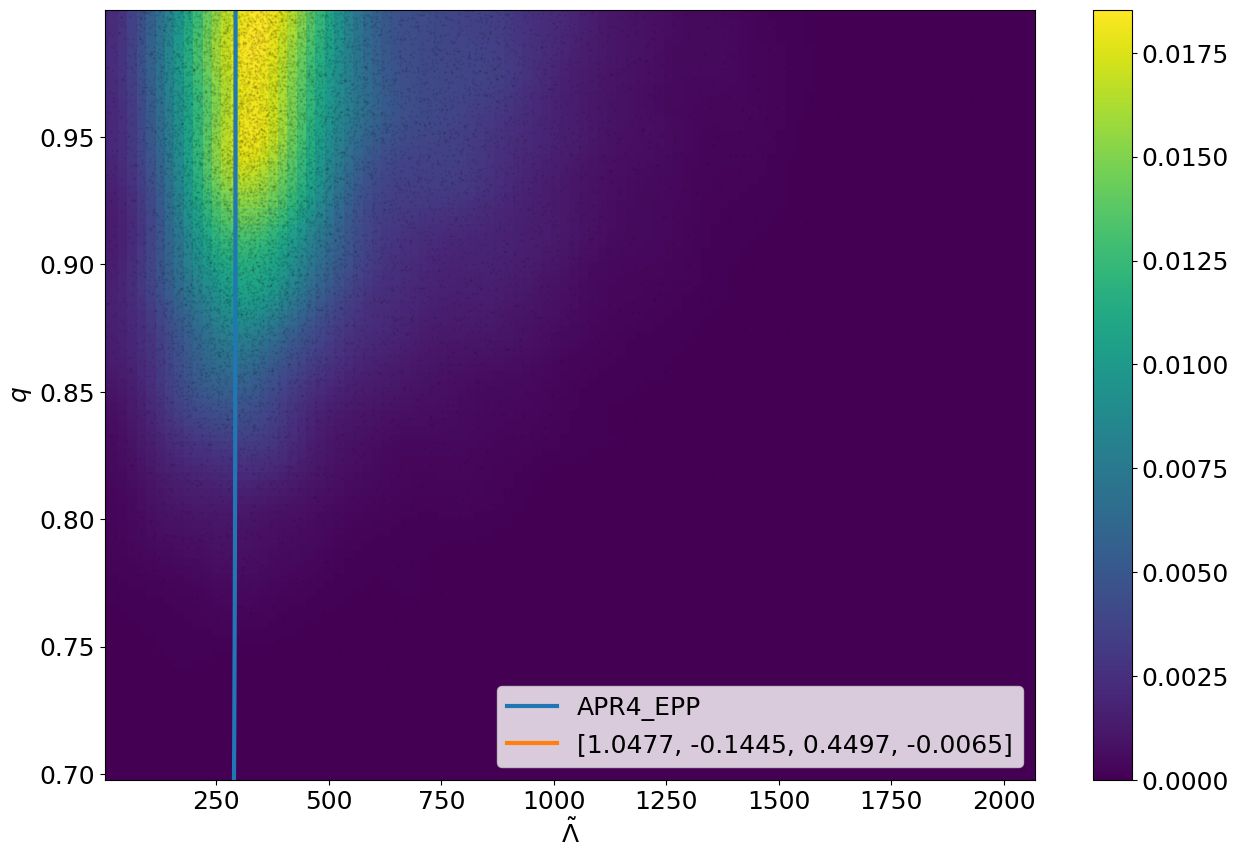
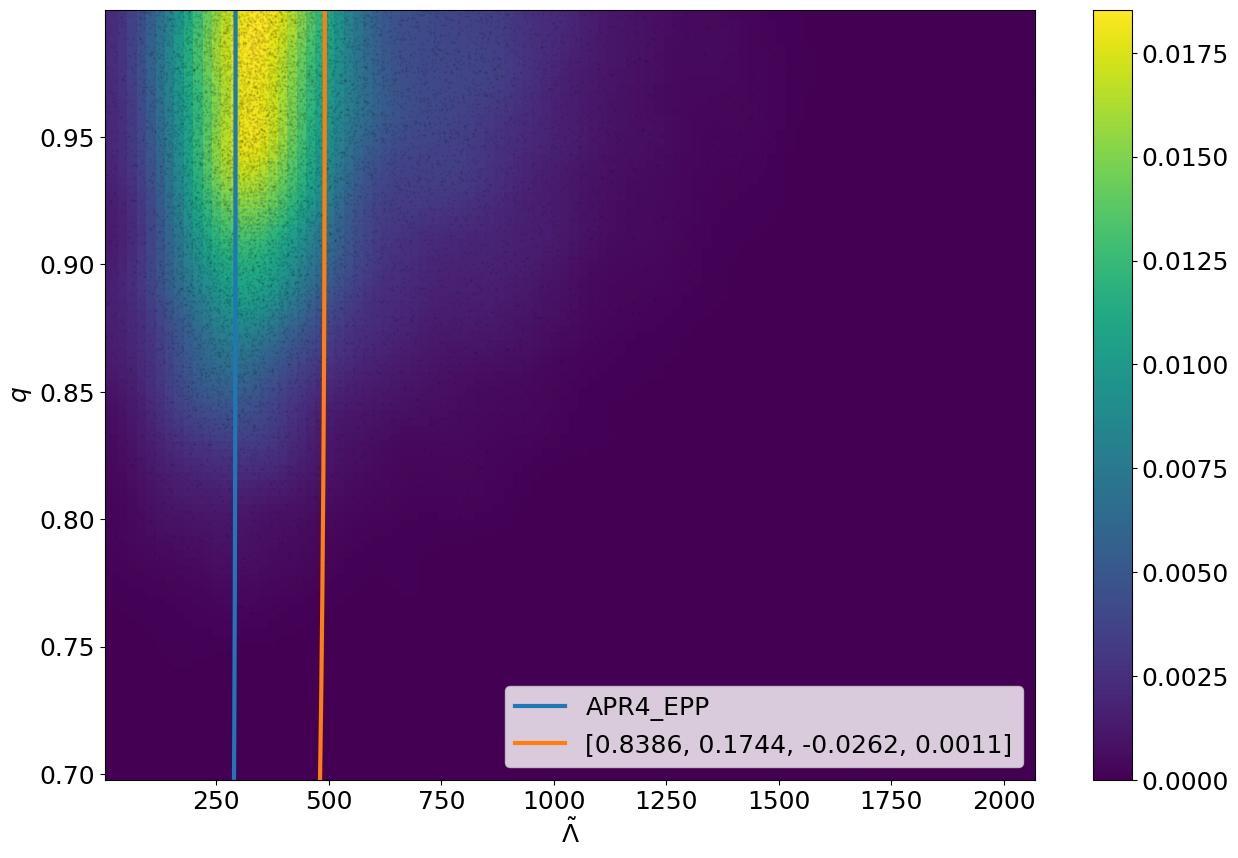
Plot test3.

Changed region(s): [[0.2456, 0.0303, 0.2763, 0.9091], [0.4604, 0.7879, 0.8288, 0.8788], [0.399, 0.7879, 0.4297, 0.9091]]

diff --git a/year2/parametric_tests/sampler.py b/year2/parametric_tests/sampler.py
@@ -68,9 +68,9 @@ class mcmc_sampler():
 
         eos_pointer = lalsim.SimNeutronStarEOSByName(eos)
         fam_pointer = lalsim.CreateSimNeutronStarFamily(eos_pointer)
-        min_mass = lalsim.SimNeutronStarFamMinimumMass(fam_pointer)/lal.MSUN_SI
-        s, _, _, max_mass = self.modsel.getEoSInterp(eosname=eos, m_min=min_mass)
-        target_masses = np.linspace(min_mass,max_mass,self.N)
+        #min_mass = lalsim.SimNeutronStarFamMinimumMass(fam_pointer)/lal.MSUN_SI
+        s, _, _, max_mass = self.modsel.getEoSInterp(eosname=eos, m_min=1.0)
+        target_masses = np.linspace(1.0,max_mass,self.N)
         target_Lambdas = s(target_masses)
         self.target_lambdas = (target_Lambdas / lal.G_SI) * ((target_masses * lal.MRSUN_SI) ** 5)
 
@@ -82,8 +82,8 @@ class mcmc_sampler():
         '''
 
         g1_p1, g2, g3, g4 = parameters
-        s, min_mass, max_mass = self.modsel.getEoSInterp_parametrized([g1_p1,g2,g3,g4])
-        trial_masses = np.linspace(min_mass,max_mass,self.N)
+        s, _, max_mass = self.modsel.getEoSInterp_parametrized([g1_p1,g2,g3,g4])
+        trial_masses = np.linspace(1.0,max_mass,self.N)
         trial_Lambdas = s(trial_masses)
         trial_lambdas = (trial_Lambdas / lal.G_SI) * ((trial_masses * lal.MRSUN_SI) ** 5)
         r_val = - math.log(np.sum((self.target_lambdas - trial_lambdas) ** 2))

diff --git a/year2/parametric_tests/basic_sampler.py b/year2/parametric_tests/basic_sampler.py
@@ -93,6 +93,4 @@ class param_distro:
         bestfit = {eos_name:self.bestfit_samples}
         with open("testing_bestfit.json", "w") as f: json.dump(bestfit, f, indent=2, sort_keys=True)
         self.modsel.plot_func([eos_name, self.bestfit_samples],filename="testing_bestfit.png")
-        self.modsel.plot_func([eos_name],filename="testing_bestfit_separate1.png")
-        self.modsel.plot_func([self.bestfit_samples],filename="testing_bestfit_separate2.png")
 
